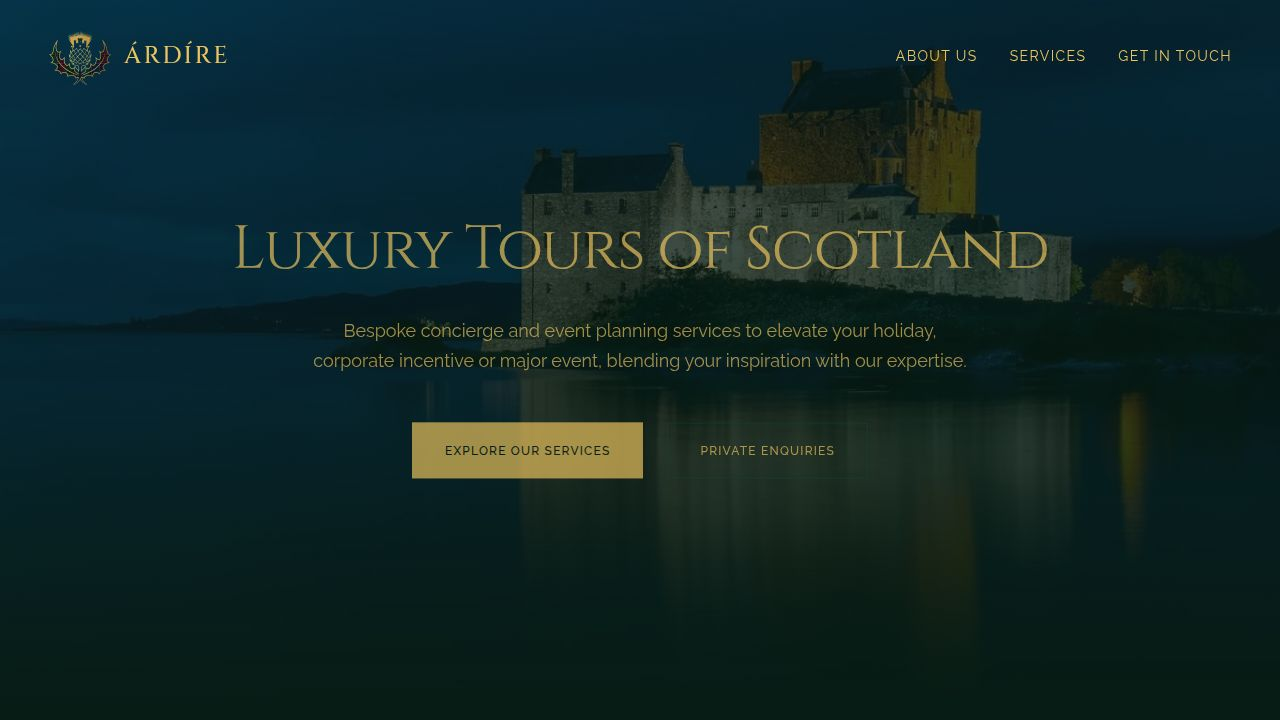
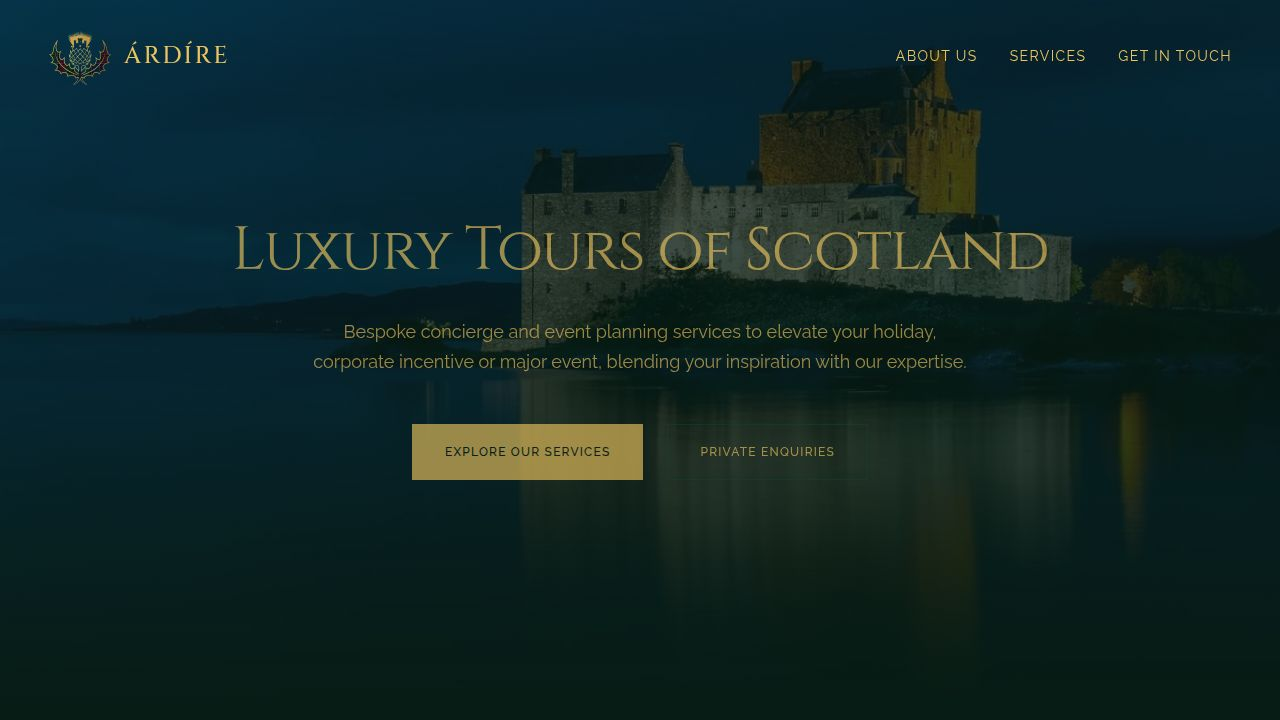
Reduce ardire JS bundle below 500KB warning threshold
Original task (#5):
The ardire main JS bundle was 581.43 KB (gzip 184.24 KB), triggering Vite's
>500KB chunk-size warning. Goal: split heavy deps and lazy-load route/section
code so the main bundle drops below 500KB and form libs only load on demand.

Changes:
- artifacts/ardire/vite.config.ts: added build.rollupOptions.output.manualChunks
  splitting node_modules into framer-motion, forms (react-hook-form + zod +
  @user/resolvers), radix (@user/*), and react-vendor (react,
  react-dom, scheduler, wouter, use-sync-external-store) chunks.
- artifacts/ardire/src/components/LazyOnVisible.tsx: new helper that defers
  children until an IntersectionObserver fires (rootMargin 300px). Supports an
  optional `id` that is applied to the wrapper div and forces immediate
  visibility when location.hash matches (initial load + hashchange).
- artifacts/ardire/src/pages/Home.tsx: Contact section is now React.lazy +
  wrapped in <LazyOnVisible id="contact"> + <Suspense>. The forms chunk only
  downloads when the user scrolls toward the contact form.
- artifacts/ardire/src/components/sections/Contact.tsx: removed the
  id="contact" from the inner <section> to avoid duplicate IDs (the wrapper
  now owns the anchor).
- artifacts/ardire/src/App.tsx: ServiceDetail and Privacy routes converted to
  React.lazy with Suspense fallback={null}, removing them from the main entry.

Code-review feedback addressed:
The first iteration broke #contact navigation (Hero "Private Enquiries" anchor,
[…]

diff --git a/artifacts/ardire/src/components/LazyOnVisible.tsx b/artifacts/ardire/src/components/LazyOnVisible.tsx
@@ -1,0 +1,61 @@
+import { useEffect, useRef, useState, type ReactNode } from "react";
+
+interface LazyOnVisibleProps {
+  children: ReactNode;
+  rootMargin?: string;
+  minHeight?: string | number;
+  id?: string;
+}
+
+export function LazyOnVisible({
+  children,
+  rootMargin = "300px",
+  minHeight = "600px",
+  id,
+}: LazyOnVisibleProps) {
+  const ref = useRef<HTMLDivElement>(null);
+  const [visible, setVisible] = useState(() => {
+    if (typeof window === "undefined" || !id) return false;
+    return window.location.hash === `#${id}`;
+  });
+
+  useEffect(() => {
+    if (visible) return;
+
+    const cleanups: Array<() => void> = [];
+
+    if (id && typeof window !== "undefined") {
+      const matchHash = () => {
+        if (window.location.hash === `#${id}`) setVisible(true);
+      };
+      window.addEventListener("hashchange", matchHash);
+      cleanups.push(() => window.removeEventListener("hashchange", matchHash));
+    }
+
+    if (typeof IntersectionObserver === "undefined") {
+      setVisible(true);
+    } else {
+      const el = ref.current;
+      if (!el) {
+        setVisible(true);
+      } else {
+        const obs = new IntersectionObserver(
+          (entries) => {
+            if (entries.some((e) => e.isIntersecting)) setVisible(true);
+          },
+          { rootMargin },
+        );
+        obs.observe(el);
+        cleanups.push(() => obs.disconnect());
+      }
+    }
+
+    return () => cleanups.forEach((fn) => fn());
+  }, [id, rootMargin, visible]);
+
+  return (
+    <div ref={ref} id={id} style={visible ? undefined : { minHeight }}>
+      {visible ? children : null}
+    </div>
+  );
+}

diff --git a/artifacts/ardire/vite.config.ts b/artifacts/ardire/vite.config.ts
@@ -39,6 +39,35 @@ export default defineConfig({
   build: {
     outDir: path.resolve(import.meta.dirname, "dist/public"),
     emptyOutDir: true,
+    rollupOptions: {
+      output: {
+        manualChunks(id) {
+          if (!id.includes("node_modules")) return;
+          if (id.includes("framer-motion") || id.includes("motion-dom") || id.includes("motion-utils")) {
+            return "framer-motion";
+          }
+          if (
+            id.includes("react-hook-form") ||
+            id.includes("@hookform") ||
+            id.includes("/zod/")
+          ) {
+            return "forms";
+          }
+          if (id.includes("@radix-ui")) {
+            return "radix";
+          }
+          if (
+            id.includes("/react/") ||
+            id.includes("/react-dom/") ||
+            id.includes("/scheduler/") ||
+            id.includes("/wouter/") ||
+            id.includes("/use-sync-external-store/")
+          ) {
+            return "react-vendor";
+          }
+        },
+      },
+    },
   },
   server: {
     port,

diff --git a/artifacts/ardire/src/App.tsx b/artifacts/ardire/src/App.tsx
@@ -1,19 +1,23 @@
+import { lazy, Suspense } from "react";
 import { Switch, Route, Router as WouterRouter } from "wouter";
 import { Toaster } from "@/components/ui/toaster";
 import { TooltipProvider } from "@/components/ui/tooltip";
 import Home from "@/pages/Home";
-import ServiceDetail from "@/pages/ServiceDetail";
-import Privacy from "@/pages/Privacy";
 import NotFound from "@/pages/not-found";
+
+const ServiceDetail = lazy(() => import("@/pages/ServiceDetail"));
+const Privacy = lazy(() => import("@/pages/Privacy"));
 
 function Router() {
   return (
-    <Switch>
-      <Route path="/" component={Home} />
-      <Route path="/services/:slug" component={ServiceDetail} />
-      <Route path="/privacy" component={Privacy} />
-      <Route component={NotFound} />
-    </Switch>
+    <Suspense fallback={null}>
+      <Switch>
+        <Route path="/" component={Home} />
+        <Route path="/services/:slug" component={ServiceDetail} />
+        <Route path="/privacy" component={Privacy} />
+        <Route component={NotFound} />
+      </Switch>
+    </Suspense>
   );
 }
 

diff --git a/artifacts/ardire/src/pages/Home.tsx b/artifacts/ardire/src/pages/Home.tsx
@@ -1,9 +1,14 @@
+import { lazy, Suspense } from "react";
 import { Navbar } from "@/components/layout/Navbar";
 import { Footer } from "@/components/layout/Footer";
 import { Hero } from "@/components/sections/Hero";
 import { About } from "@/components/sections/About";
 import { Services } from "@/components/sections/Services";
-import { Contact } from "@/components/sections/Contact";
+import { LazyOnVisible } from "@/components/LazyOnVisible";
+
+const Contact = lazy(() =>
+  import("@/components/sections/Contact").then((m) => ({ default: m.Contact })),
+);
 
 export default function Home() {
   return (
@@ -13,7 +18,11 @@ export default function Home() {
         <Hero />
         <About />
         <Services />
-        <Contact />
+        <LazyOnVisible id="contact" minHeight="900px">
+          <Suspense fallback={null}>
+            <Contact />
+          </Suspense>
+        </LazyOnVisible>
       </main>
       <Footer />
     </div>

diff --git a/artifacts/ardire/src/components/sections/Contact.tsx b/artifacts/ardire/src/components/sections/Contact.tsx
@@ -76,7 +76,7 @@ export function Contact() {
   }
 
   return (
-    <section id="contact" className="py-24 md:py-32 bg-background relative border-t border-border/30">
+    <section className="py-24 md:py-32 bg-background relative border-t border-border/30">
       <div className="max-w-7xl mx-auto px-6 md:px-12">
         <div className="grid grid-cols-1 lg:grid-cols-2 gap-16 lg:gap-24">
 